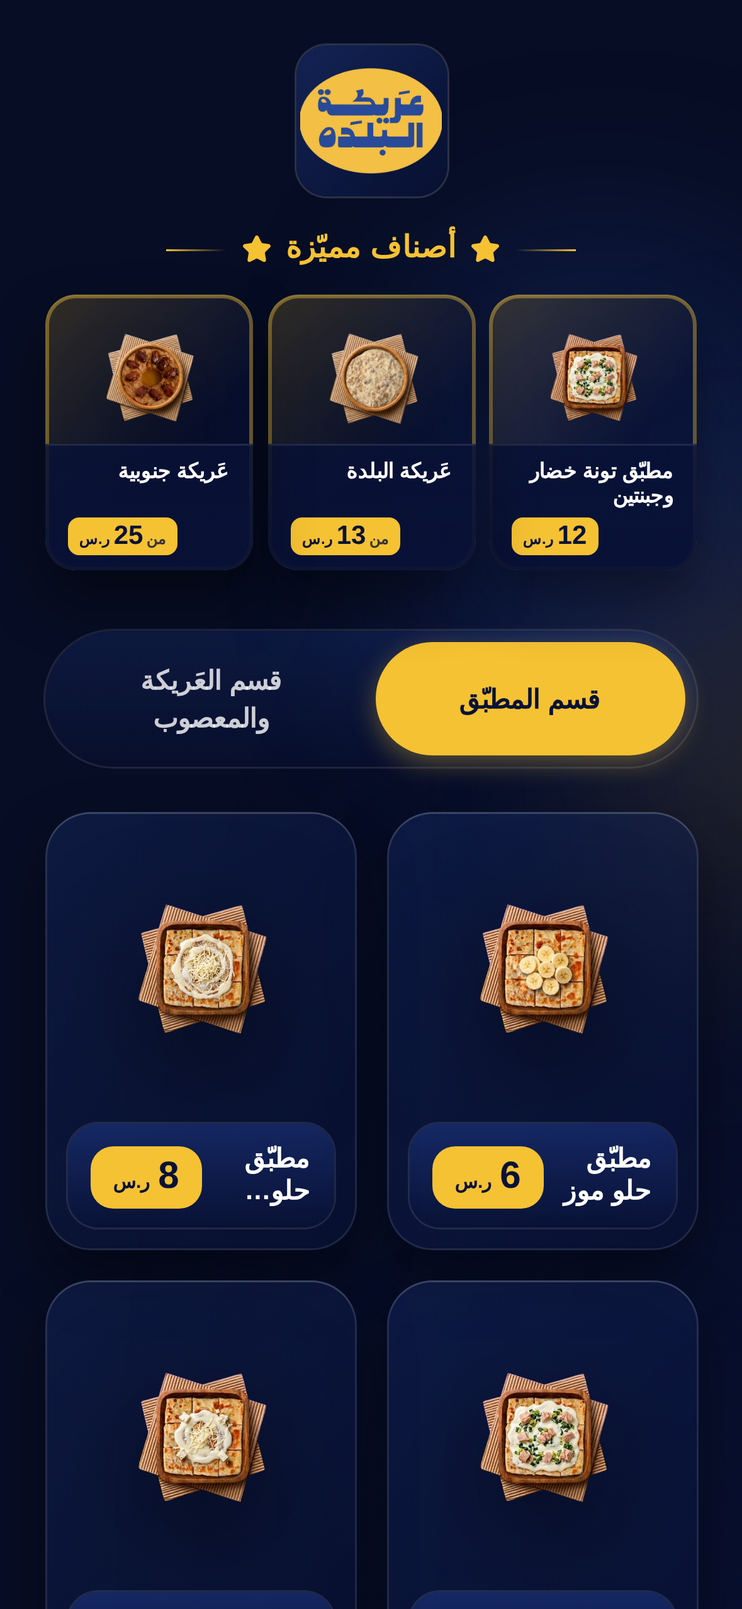
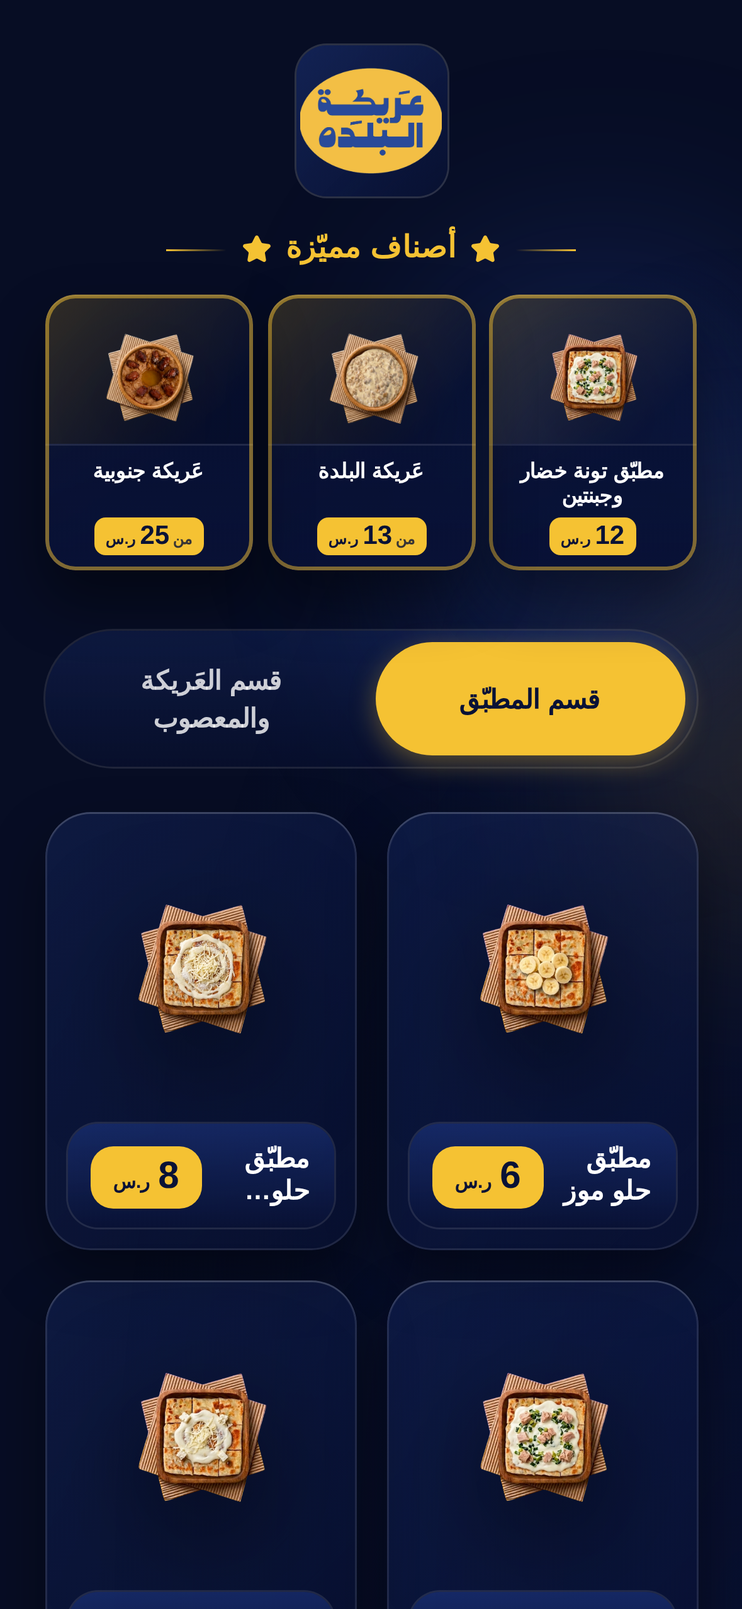
fix(web): gold ring visible on all 4 edges + centred price chip
User caught two issues with the featured cards on iPhone:

1) The opaque dark strip was painting OVER the gold ring at the
   bottom of the card, so the ring looked cut off — only top and
   sides visible.
   Cause: the ring was rendered as the FIRST positioned child of the
   button, putting it underneath every later sibling (including the
   strip with its near-opaque background).
   Fix: moved the ring overlay to be the LAST child so it's the top
   z-layer of the card. With pointer-events-none it still passes
   clicks through. Bumped opacity 40% → 50% so the gold reads cleanly
   against the dark strip below. Same treatment applied to the
   hover-state ring.

2) On phone, the dish name + price chip were aligned right/end inside
   the strip, leaving an unbalanced empty band on the opposite side.
   Fix: centred both elements (text-center on the name + self-center
   on the chip) on phone widths only. md+ keeps the original side-by-
   side layout (name right, chip left in RTL).

https://claude.ai/code/session_01Tjv9deCadTK9xL9Nd7REno

diff --git a/docs/assets/index-B9Rr-2b2.css b/docs/assets/index-B9Rr-2b2.css
@@ -1,0 +1,1 @@
+*,:before,:after{--tw-border-spacing-x: 0;--tw-border-spacing-y: 0;--tw-translate-x: 0;--tw-translate-y: 0;--tw-rotate: 0;--tw-skew-x: 0;--tw-skew-y: 0;--tw-scale-x: 1;--tw-scale-y: 1;--tw-pan-x: ;--tw-pan-y: ;--tw-pinch-zoom: ;--tw-scroll-snap-strictness: proximity;--tw-gradient-from-position: ;--tw-gradient-via-position: ;--tw-gradient-to-position: ;--tw-ordinal: ;--tw-slashed-zero: ;--tw-numeric-figure: ;--tw-numeric-spacing: ;--tw-numeric-fraction: ;--tw-ring-inset: ;--tw-ring-offset-width: 0px;--tw-ring-offset-color: #fff;--tw-ring-color: rgb(59 130 246 / .5);--tw-ring-offset-shadow: 0 0 #0000;--tw-ring-shadow: 0 0 #0000;--tw-shadow: 0 0 #0000;--tw-shadow-colored: 0 0 #0000;--tw-blur: ;--tw-brightness: ;--tw-contrast: ;--tw-grayscale: ;--tw-hue-rotate: ;--tw-invert: ;--tw-saturate: ;--tw-sepia: ;--tw-drop-shadow: ;--tw-backdrop-blur: ;--tw-backdrop-brightness: ;--tw-backdrop-contrast: ;--tw-backdrop-grayscale: ;--tw-backdrop-hue-rotate: ;--tw-backdrop-invert: ;--tw-backdrop-opacity: ;--tw-backdrop-saturate: ;--tw-backdrop-sepia: ;--tw-contain-size: ;--tw-contain-layout: ;--tw-contain-paint: ;--tw-contain-style: }::backdrop{--tw-border-spacing-x: 0;--tw-border-spacing-y: 0;--tw-translate-x: 0;--tw-translate-y: 0;--tw-rotate: 0;--tw-skew-x: 0;--tw-skew-y: 0;--tw-scale-x: 1;--tw-scale-y: 1;--tw-pan-x: ;--tw-pan-y: ;--tw-pinch-zoom: ;--tw-scroll-snap-strictness: proximity;--tw-gradient-from-position: ;--tw-gradient-via-position: ;--tw-gradient-to-position: ;--tw-ordinal: ;--tw-slashed-zero: ;--tw-numeric-figure: ;--tw-numeric-spacing: ;--tw-numeric-fraction: ;--tw-ring-inset: ;--tw-ring-offset-width: 0px;--tw-ring-offset-color: #fff;--tw-ring-color: rgb(59 130 246 / .5);--tw-ring-offset-shadow: 0 0 #0000;--tw-ring-shadow: 0 0 #0000;--tw-shadow: 0 0 #0000;--tw-shadow-colored: 0 0 #0000;--tw-blur: ;--tw-brightness: ;--tw-contrast: ;--tw-grayscale: ;--tw-hue-rotate: ;--tw-invert: ;--tw-saturate: ;--tw-sepia: ;--tw-drop-shadow: ;--tw-backdrop-blur: ;--tw-backdrop-brightness: ;--tw-backdrop-contrast: ;--tw-backdrop-grayscale: ;--tw-backdrop-hue-rotate: ;--tw-backdrop-invert: ;--tw-backdrop-opacity: ;--tw-backdrop-saturate: ;--tw-backdrop-sepia: ;--tw-contain-size: ;--tw-contain-layout: ;--tw-contain-paint: ;--tw-contain-style: }*,:before,:after{box-sizing:border-box;border-width:0;border-style:solid;border-color:#e5e7eb}:before,:after{--tw-content: ""}html,:host{line-height:1.5;-webkit-text-size-adjust:100%;-moz-tab-size:4;-o-tab-size:4;tab-size:4;font-family:ui-sans-serif,system-ui,sans-serif,"Apple Color Emoji","Segoe UI Emoji",Segoe UI Symbol,"Noto Color Emoji";font-feature-settings:normal;font-variation-settings:normal;-webkit-tap-highlight-color:transparent}body{margin:0;line-height:inherit}hr{height:0;color:inherit;border-top-width:1px}abbr:where([title]){-webkit-text-decoration:underline dotted;text-decoration:underline dotted}h1,h2,h3,h4,h5,h6{font-size:inherit;font-weight:inherit}a{color:inherit;text-decoration:inherit}b,strong{font-weight:bolder}code,kbd,samp,pre{font-family:ui-monospace,SFMono-Regular,Menlo,Monaco,Consolas,Liberation Mono,Courier New,monospace;font-feature-settings:normal;font-variation-settings:normal;font-size:1em}small{font-size:80%}sub,sup{font-size:75%;line-height:0;position:relative;vertical-align:baseline}sub{bottom:-.25em}sup{top:-.5em}table{text-indent:0;border-color:inherit;border-collapse:collapse}button,input,optgroup,select,textarea{font-family:inherit;font-feature-settings:inherit;font-variation-settings:inherit;font-size:100%;font-weight:inherit;line-height:inherit;letter-spacing:inherit;color:inherit;margin:0;padding:0}button,select{text-transform:none}button,input:where([type=button]),input:where([type=reset]),input:where([type=submit]){-webkit-appearance:button;background-color:transparent;background-image:none}:-moz-focusring{outline:auto}:-moz-ui-invalid{box-shadow:none}progress{vertical-align:baseline}::-webkit-inner-spin-button,::-webkit-outer-spin-button{height:auto}[type=search]{-webkit-appearance:textfield;outline-offset:-2px}::-webkit-search-decoration{-webkit-appearance:none}::-webkit-file-upload-button{-webkit-appearance:button;font:inherit}summary{display:list-item}blockquote,dl,dd,h1,h2,h3,h4,h5,h6,hr,figure,p,pre{margin:0}fieldset{margin:0;padding:0}legend{padding:0}ol,ul,menu{list-style:none;margin:0;padding:0}dialog{padding:0}textarea{resize:vertical}input::-moz-placeholder,textarea::-moz-placeholder{opacity:1;color:#9ca3af}input::placeholder,textarea::placeholder{opacity:1;color:#9ca3af}button,[role=button]{cursor:pointer}:disabled{cursor:default}img,svg,video,canvas,audio,iframe,embed,object{display:block;vertical-align:middle}img,video{max-width:100%;height:auto}[hidden]:where(:not([hidden=until-found])){display:none}html,body,#root{height:100%;width:100%}body{font-family:Cairo,sans-serif;background:#070d24;color:#fff;overflow:hidden;-webkit-tap-highlight-color:transparent}.container{width:100%}@media(min-width:640px){.container{max-width:640px}}@media(min-width:768px){.container{max-width:768px}}@media(min-width:1024px){.container{max-width:1024px}}@media(min-width:1280px){.container{max-width:1280px}}@media(min-width:1536px){.container{max-width:1536px}}.pointer-events-none{pointer-events:none}.visible{visibility:visible}.static{position:static}.fixed{position:fixed}.absolute{position:absolute}.relative{position:relative}.inset-0{top:0;right:0;bottom:0;left:0}.left-5{left:1.25rem}.top-5{top:1.25rem}.z-10{z-index:10}.z-50{z-index:50}.mx-3{margin-left:.75rem;margin-right:.75rem}.mx-auto{margin-left:auto;margin-right:auto}.my-5{margin-top:1.25rem;margin-bottom:1.25rem}.mb-3{margin-bottom:.75rem}.mt-1{margin-top:.25rem}.mt-6{margin-top:1.5rem}.mt-8{margin-top:2rem}.line-clamp-2{overflow:hidden;display:-webkit-box;-webkit-box-orient:vertical;-webkit-line-clamp:2}.flex{display:flex}.grid{display:grid}.aspect-\[3\/4\]{aspect-ratio:3/4}.aspect-square{aspect-ratio:1 / 1}.h-1{height:.25rem}.h-12{height:3rem}.h-14{height:3.5rem}.h-20{height:5rem}.h-4{height:1rem}.h-5{height:1.25rem}.h-\[45vh\]{height:45vh}.h-\[55vh\]{height:55vh}.h-full{height:100%}.h-px{height:1px}.max-h-full{max-height:100%}.min-h-\[2\.4em\]{min-height:2.4em}.w-12{width:3rem}.w-20{width:5rem}.w-4{width:1rem}.w-5{width:1.25rem}.w-8{width:2rem}.w-\[45vw\]{width:45vw}.w-\[55vw\]{width:55vw}.w-auto{width:auto}.w-full{width:100%}.min-w-0{min-width:0px}.max-w-2xl{max-width:42rem}.max-w-6xl{max-width:72rem}.max-w-7xl{max-width:80rem}.max-w-full{max-width:100%}.max-w-md{max-width:28rem}.flex-1{flex:1 1 0%}.flex-shrink-0,.shrink-0{flex-shrink:0}.scale-\[1\.04\]{--tw-scale-x: 1.04;--tw-scale-y: 1.04;transform:translate(var(--tw-translate-x),var(--tw-translate-y)) rotate(var(--tw-rotate)) skew(var(--tw-skew-x)) skewY(var(--tw-skew-y)) scaleX(var(--tw-scale-x)) scaleY(var(--tw-scale-y))}.transform{transform:translate(var(--tw-translate-x),var(--tw-translate-y)) rotate(var(--tw-rotate)) skew(var(--tw-skew-x)) skewY(var(--tw-skew-y)) scaleX(var(--tw-scale-x)) scaleY(var(--tw-scale-y))}.grid-cols-2{grid-template-columns:repeat(2,minmax(0,1fr))}.grid-cols-3{grid-template-columns:repeat(3,minmax(0,1fr))}.flex-col{flex-direction:column}.place-items-center{place-items:center}.items-end{align-items:flex-end}.items-center{align-items:center}.items-baseline{align-items:baseline}.items-stretch{align-items:stretch}.justify-center{justify-content:center}.justify-between{justify-content:space-between}.gap-0\.5{gap:.125rem}.gap-1{gap:.25rem}.gap-2{gap:.5rem}.gap-3{gap:.75rem}.gap-4{gap:1rem}.self-center{align-self:center}.overflow-hidden{overflow:hidden}.overflow-y-auto{overflow-y:auto}.overscroll-none{overscroll-behavior:none}.rounded-2xl{border-radius:1rem}.rounded-3xl{border-radius:1.5rem}.rounded-\[36px\]{border-radius:36px}.rounded-full{border-radius:9999px}.rounded-md{border-radius:.375rem}.rounded-xl{border-radius:.75rem}.rounded-b-2xl{border-bottom-right-radius:1rem;border-bottom-left-radius:1rem}.border{border-width:1px}.border-t{border-top-width:1px}.border-white\/10{border-color:#ffffff1a}.bg-\[\#070d24\]{--tw-bg-opacity: 1;background-color:rgb(7 13 36 / var(--tw-bg-opacity, 1))}.bg-black\/60{background-color:#0009}.bg-brand-yellow{--tw-bg-opacity: 1;background-color:rgb(245 194 51 / var(--tw-bg-opacity, 1))}.bg-white\/10{background-color:#ffffff1a}.bg-white\/15{background-color:#ffffff26}.bg-gradient-to-l{background-image:linear-gradient(to left,var(--tw-gradient-stops))}.bg-gradient-to-r{background-image:linear-gradient(to right,var(--tw-gradient-stops))}.from-brand-yellow{--tw-gradient-from: #f5c233 var(--tw-gradient-from-position);--tw-gradient-to: rgb(245 194 51 / 0) var(--tw-gradient-to-position);--tw-gradient-stops: var(--tw-gradient-from), var(--tw-gradient-to)}.to-transparent{--tw-gradient-to: transparent var(--tw-gradient-to-position)}.fill-brand-yellow{fill:#f5c233}.object-contain{-o-object-fit:contain;object-fit:contain}.p-1\.5{padding:.375rem}.p-3{padding:.75rem}.p-4{padding:1rem}.p-5{padding:1.25rem}.px-1\.5{padding-left:.375rem;padding-right:.375rem}.px-2{padding-left:.5rem;padding-right:.5rem}.px-3{padding-left:.75rem;padding-right:.75rem}.px-6{padding-left:1.5rem;padding-right:1.5rem}.py-0\.5{padding-top:.125rem;padding-bottom:.125rem}.py-1\.5{padding-top:.375rem;padding-bottom:.375rem}.py-2{padding-top:.5rem;padding-bottom:.5rem}.py-2\.5{padding-top:.625rem;padding-bottom:.625rem}.pb-1{padding-bottom:.25rem}.pb-10{padding-bottom:2.5rem}.pb-3{padding-bottom:.75rem}.pt-10{padding-top:2.5rem}.pt-3{padding-top:.75rem}.pt-4{padding-top:1rem}.pt-6{padding-top:1.5rem}.text-center{text-align:center}.text-right{text-align:right}.font-cairo{font-family:Cairo,sans-serif}.font-tajawal{font-family:Tajawal,sans-serif}.text-2xl{font-size:1.5rem;line-height:2rem}.text-3xl{font-size:1.875rem;line-height:2.25rem}.text-\[10px\]{font-size:10px}.text-\[11px\]{font-size:11px}.text-\[8px\]{font-size:8px}.text-\[9px\]{font-size:9px}.text-base{font-size:1rem;line-height:1.5rem}.text-sm{font-size:.875rem;line-height:1.25rem}.text-xl{font-size:1.25rem;line-height:1.75rem}.text-xs{font-size:.75rem;line-height:1rem}.font-black{font-weight:900}.font-bold{font-weight:700}.leading-\[1\.2\]{line-height:1.2}.leading-none{line-height:1}.leading-tight{line-height:1.25}.tracking-wide{letter-spacing:.025em}.text-brand-blueDeep{--tw-text-opacity: 1;color:rgb(9 18 54 / var(--tw-text-opacity, 1))}.text-brand-yellow{--tw-text-opacity: 1;color:rgb(245 194 51 / var(--tw-text-opacity, 1))}.text-white{--tw-text-opacity: 1;color:rgb(255 255 255 / var(--tw-text-opacity, 1))}.text-white\/80{color:#fffc}.antialiased{-webkit-font-smoothing:antialiased;-moz-osx-font-smoothing:grayscale}.opacity-80{opacity:.8}.shadow-\[0_4px_14px_rgba\(245\,194\,51\,0\.35\)\]{--tw-shadow: 0 4px 14px rgba(245,194,51,.35);--tw-shadow-colored: 0 4px 14px var(--tw-shadow-color);box-shadow:var(--tw-ring-offset-shadow, 0 0 #0000),var(--tw-ring-shadow, 0 0 #0000),var(--tw-shadow)}.outline-none{outline:2px solid transparent;outline-offset:2px}.ring{--tw-ring-offset-shadow: var(--tw-ring-inset) 0 0 0 var(--tw-ring-offset-width) var(--tw-ring-offset-color);--tw-ring-shadow: var(--tw-ring-inset) 0 0 0 calc(3px + var(--tw-ring-offset-width)) var(--tw-ring-color);box-shadow:var(--tw-ring-offset-shadow),var(--tw-ring-shadow),var(--tw-shadow, 0 0 #0000)}.ring-1{--tw-ring-offset-shadow: var(--tw-ring-inset) 0 0 0 var(--tw-ring-offset-width) var(--tw-ring-offset-color);--tw-ring-shadow: var(--tw-ring-inset) 0 0 0 calc(1px + var(--tw-ring-offset-width)) var(--tw-ring-color);box-shadow:var(--tw-ring-offset-shadow),var(--tw-ring-shadow),var(--tw-shadow, 0 0 #0000)}.ring-2{--tw-ring-offset-shadow: var(--tw-ring-inset) 0 0 0 var(--tw-ring-offset-width) var(--tw-ring-offset-color);--tw-ring-shadow: var(--tw-ring-inset) 0 0 0 calc(2px + var(--tw-ring-offset-width)) var(--tw-ring-color);box-shadow:var(--tw-ring-offset-shadow),var(--tw-ring-shadow),var(--tw-shadow, 0 0 #0000)}.ring-inset{--tw-ring-inset: inset}.ring-brand-yellow\/0{--tw-ring-color: rgb(245 194 51 / 0)}.ring-brand-yellow\/50{--tw-ring-color: rgb(245 194 51 / .5)}.ring-white\/10{--tw-ring-color: rgb(255 255 255 / .1)}.ring-white\/15{--tw-ring-color: rgb(255 255 255 / .15)}.ring-white\/20{--tw-ring-color: rgb(255 255 255 / .2)}.ring-white\/25{--tw-ring-color: rgb(255 255 255 / .25)}.blur{--tw-blur: blur(8px);filter:var(--tw-blur) var(--tw-brightness) var(--tw-contrast) var(--tw-grayscale) var(--tw-hue-rotate) var(--tw-invert) var(--tw-saturate) var(--tw-sepia) var(--tw-drop-shadow)}.drop-shadow-\[0_18px_28px_rgba\(0\,0\,0\,0\.55\)\]{--tw-drop-shadow: drop-shadow(0 18px 28px rgba(0,0,0,.55));filter:var(--tw-blur) var(--tw-brightness) var(--tw-contrast) var(--tw-grayscale) var(--tw-hue-rotate) var(--tw-invert) var(--tw-saturate) var(--tw-sepia) var(--tw-drop-shadow)}.drop-shadow-\[0_36px_60px_rgba\(0\,0\,0\,0\.55\)\]{--tw-drop-shadow: drop-shadow(0 36px 60px rgba(0,0,0,.55));filter:var(--tw-blur) var(--tw-brightness) var(--tw-contrast) var(--tw-grayscale) var(--tw-hue-rotate) var(--tw-invert) var(--tw-saturate) var(--tw-sepia) var(--tw-drop-shadow)}.filter{filter:var(--tw-blur) var(--tw-brightness) var(--tw-contrast) var(--tw-grayscale) var(--tw-hue-rotate) var(--tw-invert) var(--tw-saturate) var(--tw-sepia) var(--tw-drop-shadow)}.backdrop-blur{--tw-backdrop-blur: blur(8px);-webkit-backdrop-filter:var(--tw-backdrop-blur) var(--tw-backdrop-brightness) var(--tw-backdrop-contrast) var(--tw-backdrop-grayscale) var(--tw-backdrop-hue-rotate) var(--tw-backdrop-invert) var(--tw-backdrop-opacity) var(--tw-backdrop-saturate) var(--tw-backdrop-sepia);backdrop-filter:var(--tw-backdrop-blur) var(--tw-backdrop-brightness) var(--tw-backdrop-contrast) var(--tw-backdrop-grayscale) var(--tw-backdrop-hue-rotate) var(--tw-backdrop-invert) var(--tw-backdrop-opacity) var(--tw-backdrop-saturate) var(--tw-backdrop-sepia)}.backdrop-blur-3xl{--tw-backdrop-blur: blur(64px);-webkit-backdrop-filter:var(--tw-backdrop-blur) var(--tw-backdrop-brightness) var(--tw-backdrop-contrast) var(--tw-backdrop-grayscale) var(--tw-backdrop-hue-rotate) var(--tw-backdrop-invert) var(--tw-backdrop-opacity) var(--tw-backdrop-saturate) var(--tw-backdrop-sepia);backdrop-filter:var(--tw-backdrop-blur) var(--tw-backdrop-brightness) var(--tw-backdrop-contrast) var(--tw-backdrop-grayscale) var(--tw-backdrop-hue-rotate) var(--tw-backdrop-invert) var(--tw-backdrop-opacity) var(--tw-backdrop-saturate) var(--tw-backdrop-sepia)}.backdrop-blur-md{--tw-backdrop-blur: blur(12px);-webkit-backdrop-filter:var(--tw-backdrop-blur) var(--tw-backdrop-brightness) var(--tw-backdrop-contrast) var(--tw-backdrop-grayscale) var(--tw-backdrop-hue-rotate) var(--tw-backdrop-invert) var(--tw-backdrop-opacity) var(--tw-backdrop-saturate) var(--tw-backdrop-sepia);backdrop-filter:var(--tw-backdrop-blur) var(--tw-backdrop-brightness) var(--tw-backdrop-contrast) var(--tw-backdrop-grayscale) var(--tw-backdrop-hue-rotate) var(--tw-backdrop-invert) var(--tw-backdrop-opacity) var(--tw-backdrop-saturate) var(--tw-backdrop-sepia)}.backdrop-filter{-webkit-backdrop-filter:var(--tw-backdrop-blur) var(--tw-backdrop-brightness) var(--tw-backdrop-contrast) var(--tw-backdrop-grayscale) var(--tw-backdrop-hue-rotate) var(--tw-backdrop-invert) var(--tw-backdrop-opacity) var(--tw-backdrop-saturate) var(--tw-backdrop-sepia);backdrop-filter:var(--tw-backdrop-blur) var(--tw-backdrop-brightness) var(--tw-backdrop-contrast) var(--tw-backdrop-grayscale) var(--tw-backdrop-hue-rotate) var(--tw-backdrop-invert) var(--tw-backdrop-opacity) var(--tw-backdrop-saturate) var(--tw-backdrop-sepia)}.transition{transition-property:color,background-color,border-color,text-decoration-color,fill,stroke,opacity,box-shadow,transform,filter,backdrop-filter;transition-timing-function:cubic-bezier(.4,0,.2,1);transition-duration:.15s}.transition-\[box-shadow\]{transition-property:box-shadow;transition-timing-function:cubic-bezier(.4,0,.2,1);transition-duration:.15s}.transition-colors{transition-property:color,background-color,border-color,text-decoration-color,fill,stroke;transition-timing-function:cubic-bezier(.4,0,.2,1);transition-duration:.15s}.transition-transform{transition-property:transform;transition-timing-function:cubic-bezier(.4,0,.2,1);transition-duration:.15s}.duration-200{transition-duration:.2s}.ease-out{transition-timing-function:cubic-bezier(0,0,.2,1)}.will-change-transform{will-change:transform}.hover\:-translate-y-1:hover{--tw-translate-y: -.25rem;transform:translate(var(--tw-translate-x),var(--tw-translate-y)) rotate(var(--tw-rotate)) skew(var(--tw-skew-x)) skewY(var(--tw-skew-y)) scaleX(var(--tw-scale-x)) scaleY(var(--tw-scale-y))}.hover\:bg-white\/20:hover{background-color:#fff3}.hover\:text-white:hover{--tw-text-opacity: 1;color:rgb(255 255 255 / var(--tw-text-opacity, 1))}.active\:scale-90:active{--tw-scale-x: .9;--tw-scale-y: .9;transform:translate(var(--tw-translate-x),var(--tw-translate-y)) rotate(var(--tw-rotate)) skew(var(--tw-skew-x)) skewY(var(--tw-skew-y)) scaleX(var(--tw-scale-x)) scaleY(var(--tw-scale-y))}.active\:scale-\[0\.98\]:active{--tw-scale-x: .98;--tw-scale-y: .98;transform:translate(var(--tw-translate-x),var(--tw-translate-y)) rotate(var(--tw-rotate)) skew(var(--tw-skew-x)) skewY(var(--tw-skew-y)) scaleX(var(--tw-scale-x)) scaleY(var(--tw-scale-y))}.group:hover .group-hover\:ring-brand-yellow\/40{--tw-ring-color: rgb(245 194 51 / .4)}.group:hover .group-hover\:ring-brand-yellow\/80{--tw-ring-color: rgb(245 194 51 / .8)}@media(min-width:640px){.sm\:line-clamp-1{overflow:hidden;display:-webkit-box;-webkit-box-orient:vertical;-webkit-line-clamp:1}.sm\:h-5{height:1.25rem}.sm\:min-h-0{min-height:0px}.sm\:w-16{width:4rem}.sm\:w-5{width:1.25rem}.sm\:flex-row{flex-direction:row}.sm\:items-center{align-items:center}.sm\:justify-between{justify-content:space-between}.sm\:gap-1{gap:.25rem}.sm\:gap-2{gap:.5rem}.sm\:gap-3{gap:.75rem}.sm\:gap-4{gap:1rem}.sm\:self-auto{align-self:auto}.sm\:rounded-3xl{border-radius:1.5rem}.sm\:rounded-lg{border-radius:.5rem}.sm\:rounded-b-3xl{border-bottom-right-radius:1.5rem;border-bottom-left-radius:1.5rem}.sm\:p-7{padding:1.75rem}.sm\:px-2{padding-left:.5rem;padding-right:.5rem}.sm\:px-3{padding-left:.75rem;padding-right:.75rem}.sm\:py-1{padding-top:.25rem;padding-bottom:.25rem}.sm\:py-2\.5{padding-top:.625rem;padding-bottom:.625rem}.sm\:pb-4{padding-bottom:1rem}.sm\:pt-12{padding-top:3rem}.sm\:pt-4{padding-top:1rem}.sm\:text-right{text-align:right}.sm\:text-\[9px\]{font-size:9px}.sm\:text-lg{font-size:1.125rem;line-height:1.75rem}.sm\:text-sm{font-size:.875rem;line-height:1.25rem}.sm\:text-xl{font-size:1.25rem;line-height:1.75rem}}@media(min-width:768px){.md\:order-1{order:1}.md\:order-2{order:2}.md\:aspect-auto{aspect-ratio:auto}.md\:h-16{height:4rem}.md\:h-24{height:6rem}.md\:h-full{height:100%}.md\:max-h-\[88vh\]{max-height:88vh}.md\:max-h-full{max-height:100%}.md\:w-24{width:6rem}.md\:w-auto{width:auto}.md\:max-w-full{max-width:100%}.md\:flex-1{flex:1 1 0%}.md\:grid-cols-3{grid-template-columns:repeat(3,minmax(0,1fr))}.md\:flex-row{flex-direction:row}.md\:items-stretch{align-items:stretch}.md\:gap-4{gap:1rem}.md\:gap-8{gap:2rem}.md\:p-10{padding:2.5rem}.md\:px-10{padding-left:2.5rem;padding-right:2.5rem}.md\:pt-0{padding-top:0}.md\:pt-8{padding-top:2rem}.md\:text-2xl{font-size:1.5rem;line-height:2rem}.md\:text-4xl{font-size:2.25rem;line-height:2.5rem}.md\:text-base{font-size:1rem;line-height:1.5rem}.md\:text-sm{font-size:.875rem;line-height:1.25rem}.md\:text-xl{font-size:1.25rem;line-height:1.75rem}}@media(min-width:1024px){.lg\:grid-cols-4{grid-template-columns:repeat(4,minmax(0,1fr))}}

diff --git a/docs/assets/index-BgeSWx5V.js b/docs/assets/index-BgeSWx5V.js
@@ -84,4 +84,4 @@ Error generating stack: `+a.message+`
  *
  * This source code is licensed under the ISC license.
  * See the LICENSE file in the root directory of this source tree.
- */const hA=Ig("X",[["path",{d:"M18 6 6 18",key:"1bl5f8"}],["path",{d:"m6 6 12 12",key:"d8bk6v"}]]),dA=({dish:i,onClose:l})=>H.jsx(pn.div,{initial:{opacity:0},animate:{opacity:1},exit:{opacity:0},transition:{duration:.25},onClick:l,className:"fixed inset-0 z-50 grid place-items-center bg-black/60 p-5 backdrop-blur-md",children:H.jsxs(pn.div,{initial:{y:60,scale:.95,opacity:0},animate:{y:0,scale:1,opacity:1},exit:{y:40,scale:.95,opacity:0},transition:{type:"spring",damping:24,stiffness:240},onClick:u=>u.stopPropagation(),className:"relative flex w-full max-w-6xl flex-col gap-4 overflow-hidden rounded-[36px] p-5 backdrop-blur-3xl sm:p-7 md:h-full md:max-h-[88vh] md:flex-row md:items-stretch md:gap-8 md:p-10",style:{background:"linear-gradient(135deg, rgba(47,85,196,0.30) 0%, rgba(9,18,54,0.55) 100%)",boxShadow:"0 36px 80px rgba(0, 0, 0, 0.55)",border:"1px solid rgba(255, 255, 255, 0.18)"},children:[H.jsx("button",{onClick:l,"aria-label":"إغلاق",className:"absolute left-5 top-5 z-10 grid h-12 w-12 place-items-center rounded-full bg-white/15 text-white ring-1 ring-white/25 backdrop-blur transition-transform hover:bg-white/20 active:scale-90",children:H.jsx(hA,{className:"h-5 w-5"})}),H.jsx("div",{className:"flex w-full justify-center pt-10 sm:pt-12 md:order-2 md:flex-1 md:pt-0",children:H.jsx(pn.img,{initial:{scale:.92,opacity:0},animate:{scale:1,opacity:1},transition:{delay:.1,type:"spring",damping:18,stiffness:110},src:i.image,alt:i.nameAr,className:"aspect-square w-full max-w-md object-contain drop-shadow-[0_36px_60px_rgba(0,0,0,0.55)] md:aspect-auto md:h-full md:max-h-full md:w-auto md:max-w-full"})}),H.jsxs("div",{className:"flex flex-col justify-center md:order-1 md:flex-1",dir:"rtl",children:[H.jsx(pn.h2,{initial:{x:24,opacity:0},animate:{x:0,opacity:1},transition:{delay:.2,type:"spring",damping:18,stiffness:120},className:"font-cairo font-black leading-tight text-white",style:{fontSize:"clamp(2.25rem, 4.5vw, 4rem)"},children:i.nameAr}),H.jsx("div",{className:"my-5 h-1 w-20 rounded-full bg-brand-yellow"}),i.prices&&i.prices.length>0?H.jsx(mA,{prices:i.prices}):H.jsx(pA,{price:i.price??"—"})]})]})}),mA=({prices:i})=>H.jsx("div",{className:"grid grid-cols-3 gap-3",children:i.map((l,u)=>H.jsxs(pn.div,{initial:{y:16,opacity:0},animate:{y:0,opacity:1},transition:{delay:.25+u*.07,type:"spring",damping:20,stiffness:140},className:"rounded-2xl bg-white/10 p-4 ring-1 ring-white/20 backdrop-blur",children:[H.jsx("div",{className:"font-cairo text-sm font-bold text-brand-yellow md:text-base",children:l.label}),H.jsxs("div",{className:"mt-1 flex items-baseline gap-1 font-cairo",children:[H.jsx("span",{className:"text-3xl font-black text-white md:text-4xl",children:l.value.split(" ")[0]}),H.jsx("span",{className:"text-xs font-bold text-brand-yellow md:text-sm",children:"ر.س"})]})]},l.label))}),pA=({price:i})=>{const[l,...u]=i.split(" ");return H.jsxs(pn.div,{initial:{scale:.9,opacity:0},animate:{scale:1,opacity:1},transition:{delay:.25,type:"spring",damping:18,stiffness:110},className:"flex items-baseline gap-2",children:[H.jsx("span",{className:"font-cairo font-black leading-none text-brand-yellow",style:{fontSize:"clamp(3rem, 7vw, 6rem)"},children:l}),H.jsx("span",{className:"font-cairo text-2xl font-bold text-brand-yellow md:text-4xl",children:u.join(" ")||"ر.س"})]})},yA=()=>H.jsx("header",{className:"flex flex-shrink-0 items-center justify-center px-6 pt-6 md:pt-8",children:H.jsx("div",{className:"grid h-20 w-20 place-items-center overflow-hidden rounded-2xl ring-1 ring-white/15 md:h-24 md:w-24",style:{background:"linear-gradient(135deg, rgba(47,85,196,0.30) 0%, rgba(9,18,54,0.65) 100%)"},children:H.jsx("img",{src:"logo.png",alt:"عَريكة البلدة",className:"h-14 w-auto md:h-16"})})}),gA=()=>H.jsxs("div",{className:"pointer-events-none absolute inset-0 overflow-hidden bg-[#070d24]",children:[H.jsx(pn.div,{className:"absolute h-[55vh] w-[55vw] rounded-full will-change-transform",style:{background:"radial-gradient(circle, rgba(47, 85, 196, 0.45), transparent 65%)",filter:"blur(45px)",transform:"translate3d(0,0,0)"},initial:{x:"15%",y:"5%"},animate:{x:["15%","35%","15%"],y:["5%","15%","5%"]},transition:{duration:50,ease:"easeInOut",repeat:1/0}}),H.jsx(pn.div,{className:"absolute h-[45vh] w-[45vw] rounded-full will-change-transform",style:{background:"radial-gradient(circle, rgba(245, 194, 51, 0.22), transparent 70%)",filter:"blur(50px)",transform:"translate3d(0,0,0)"},initial:{x:"60%",y:"55%"},animate:{x:["60%","40%","60%"],y:["55%","65%","55%"]},transition:{duration:60,ease:"easeInOut",repeat:1/0}}),H.jsx("div",{className:"absolute inset-0",style:{background:"radial-gradient(ellipse at bottom right, rgba(9,18,54,0.6), transparent 60%)"}})]}),vA=({active:i,categories:l,onChange:u})=>H.jsx("div",{className:"mx-auto grid w-full max-w-2xl grid-cols-2 gap-1 rounded-full p-1.5 ring-1 ring-white/10",style:{background:"linear-gradient(180deg, rgba(47,85,196,0.18) 0%, rgba(9,18,54,0.40) 100%)"},role:"tablist",children:l.map(o=>{const c=o.id===i;return H.jsx("button",{role:"tab","aria-selected":c,onClick:()=>u(o.id),className:`rounded-full px-3 py-2.5 text-center font-cairo text-sm font-bold transition-colors duration-200 ${c?"bg-brand-yellow text-brand-blueDeep shadow-[0_4px_14px_rgba(245,194,51,0.35)]":"text-white/80 hover:text-white"}`,children:o.labelAr},o.id)})}),bA=({dishes:i,onSelect:l})=>H.jsxs("section",{className:"mx-auto w-full max-w-7xl",children:[H.jsxs("div",{className:"flex items-center justify-center gap-2 pb-3 sm:gap-4 sm:pb-4",children:[H.jsx("span",{className:"h-px w-8 bg-gradient-to-l from-brand-yellow to-transparent sm:w-16"}),H.jsx(vy,{className:"h-4 w-4 fill-brand-yellow text-brand-yellow sm:h-5 sm:w-5",strokeWidth:2}),H.jsx("h2",{className:"font-cairo text-base font-black tracking-wide text-brand-yellow sm:text-xl md:text-2xl",children:"أصناف مميّزة"}),H.jsx(vy,{className:"h-4 w-4 fill-brand-yellow text-brand-yellow sm:h-5 sm:w-5",strokeWidth:2}),H.jsx("span",{className:"h-px w-8 bg-gradient-to-r from-brand-yellow to-transparent sm:w-16"})]}),H.jsx("div",{className:"grid grid-cols-3 gap-2 sm:gap-3 md:gap-4",children:i.map(u=>H.jsx(SA,{dish:u,onClick:()=>l(u)},u.image))})]}),SA=({dish:i,onClick:l})=>{const u=i.prices&&i.prices.length>1,o=Wg(i);return H.jsxs("button",{onClick:l,className:"group relative flex aspect-[3/4] flex-col overflow-hidden rounded-2xl text-right outline-none transition-transform duration-200 ease-out will-change-transform hover:-translate-y-1 active:scale-[0.98] sm:rounded-3xl",style:{background:"linear-gradient(135deg, rgba(245,194,51,0.18) 0%, rgba(9,18,54,0.65) 60%, rgba(9,18,54,0.65) 100%)",boxShadow:"0 16px 30px rgba(0, 0, 0, 0.45), inset 0 1px 0 rgba(255, 255, 255, 0.12)"},children:[H.jsx("div",{className:"pointer-events-none absolute inset-0 rounded-2xl ring-2 ring-inset ring-brand-yellow/40 sm:rounded-3xl"}),H.jsx("div",{className:"relative flex flex-1 items-center justify-center px-2 pb-1 pt-3 sm:pt-4",children:H.jsx("img",{src:i.image,alt:i.nameAr,decoding:"async",className:"max-h-full max-w-full object-contain drop-shadow-[0_18px_28px_rgba(0,0,0,0.55)]",style:{transform:"scale(1.06)"}})}),H.jsxs("div",{className:"relative flex w-full flex-shrink-0 flex-col items-stretch gap-1 rounded-b-2xl border-t border-white/10 px-3 py-2 sm:flex-row sm:items-center sm:justify-between sm:gap-2 sm:rounded-b-3xl sm:px-3 sm:py-2.5",style:{background:"linear-gradient(180deg, rgba(9, 18, 54, 0.85) 0%, rgba(9, 18, 54, 0.95) 100%)"},children:[H.jsx("h3",{className:"line-clamp-2 min-h-[2.4em] min-w-0 flex-1 text-right font-cairo text-[11px] font-black leading-[1.2] sm:min-h-0 sm:line-clamp-1 sm:text-sm md:text-base",children:i.nameAr}),H.jsxs("div",{className:"flex shrink-0 items-baseline gap-0.5 self-end rounded-md bg-brand-yellow px-1.5 py-0.5 text-brand-blueDeep sm:gap-1 sm:self-auto sm:rounded-lg sm:px-2 sm:py-1",children:[u?H.jsx("span",{className:"font-tajawal text-[8px] font-bold opacity-80 sm:text-[9px]",children:"من"}):null,H.jsx("span",{className:"font-cairo text-sm font-black leading-none sm:text-lg md:text-xl",children:o}),H.jsx("span",{className:"font-cairo text-[8px] font-bold sm:text-[9px]",children:"ر.س"})]})]}),H.jsx("div",{className:"pointer-events-none absolute inset-0 rounded-2xl ring-2 ring-brand-yellow/0 transition-[box-shadow] duration-200 group-hover:ring-brand-yellow/70 sm:rounded-3xl"})]})},TA=()=>{const[i,l]=G.useState("mutabbaq"),[u,o]=G.useState(null),c=G.useMemo(()=>i==="mutabbaq"?kg:Fg,[i]);return G.useEffect(()=>{Pg.forEach(d=>{const h=new Image;h.src=d.image})},[]),H.jsxs("div",{className:"relative h-full w-full overflow-hidden text-white",children:[H.jsx(gA,{}),H.jsxs("div",{className:"relative z-10 flex h-full flex-col",children:[H.jsx(yA,{}),H.jsxs("main",{className:"flex-1 overflow-y-auto px-6 pb-10 pt-4 md:px-10",children:[H.jsx(bA,{dishes:uA,onSelect:o}),H.jsx("div",{className:"mt-8",children:H.jsx(vA,{active:i,categories:lA,onChange:l})}),H.jsx(ap,{mode:"wait",children:H.jsx(pn.div,{initial:{opacity:0,y:8},animate:{opacity:1,y:0},exit:{opacity:0,y:-4},transition:{duration:.22,ease:"easeOut"},className:"mx-auto mt-6 grid w-full max-w-7xl grid-cols-2 gap-4 md:grid-cols-3 lg:grid-cols-4",children:c.map((d,h)=>H.jsx(oA,{dish:d,index:h,startingPrice:Wg(d),onClick:()=>o(d)},d.image))},i)})]})]}),H.jsx(ap,{children:u?H.jsx(dA,{dish:u,onClose:()=>o(null)}):null})]})};V1.createRoot(document.getElementById("root")).render(H.jsx(G.StrictMode,{children:H.jsx(TA,{})}));
+ */const hA=Ig("X",[["path",{d:"M18 6 6 18",key:"1bl5f8"}],["path",{d:"m6 6 12 12",key:"d8bk6v"}]]),dA=({dish:i,onClose:l})=>H.jsx(pn.div,{initial:{opacity:0},animate:{opacity:1},exit:{opacity:0},transition:{duration:.25},onClick:l,className:"fixed inset-0 z-50 grid place-items-center bg-black/60 p-5 backdrop-blur-md",children:H.jsxs(pn.div,{initial:{y:60,scale:.95,opacity:0},animate:{y:0,scale:1,opacity:1},exit:{y:40,scale:.95,opacity:0},transition:{type:"spring",damping:24,stiffness:240},onClick:u=>u.stopPropagation(),className:"relative flex w-full max-w-6xl flex-col gap-4 overflow-hidden rounded-[36px] p-5 backdrop-blur-3xl sm:p-7 md:h-full md:max-h-[88vh] md:flex-row md:items-stretch md:gap-8 md:p-10",style:{background:"linear-gradient(135deg, rgba(47,85,196,0.30) 0%, rgba(9,18,54,0.55) 100%)",boxShadow:"0 36px 80px rgba(0, 0, 0, 0.55)",border:"1px solid rgba(255, 255, 255, 0.18)"},children:[H.jsx("button",{onClick:l,"aria-label":"إغلاق",className:"absolute left-5 top-5 z-10 grid h-12 w-12 place-items-center rounded-full bg-white/15 text-white ring-1 ring-white/25 backdrop-blur transition-transform hover:bg-white/20 active:scale-90",children:H.jsx(hA,{className:"h-5 w-5"})}),H.jsx("div",{className:"flex w-full justify-center pt-10 sm:pt-12 md:order-2 md:flex-1 md:pt-0",children:H.jsx(pn.img,{initial:{scale:.92,opacity:0},animate:{scale:1,opacity:1},transition:{delay:.1,type:"spring",damping:18,stiffness:110},src:i.image,alt:i.nameAr,className:"aspect-square w-full max-w-md object-contain drop-shadow-[0_36px_60px_rgba(0,0,0,0.55)] md:aspect-auto md:h-full md:max-h-full md:w-auto md:max-w-full"})}),H.jsxs("div",{className:"flex flex-col justify-center md:order-1 md:flex-1",dir:"rtl",children:[H.jsx(pn.h2,{initial:{x:24,opacity:0},animate:{x:0,opacity:1},transition:{delay:.2,type:"spring",damping:18,stiffness:120},className:"font-cairo font-black leading-tight text-white",style:{fontSize:"clamp(2.25rem, 4.5vw, 4rem)"},children:i.nameAr}),H.jsx("div",{className:"my-5 h-1 w-20 rounded-full bg-brand-yellow"}),i.prices&&i.prices.length>0?H.jsx(mA,{prices:i.prices}):H.jsx(pA,{price:i.price??"—"})]})]})}),mA=({prices:i})=>H.jsx("div",{className:"grid grid-cols-3 gap-3",children:i.map((l,u)=>H.jsxs(pn.div,{initial:{y:16,opacity:0},animate:{y:0,opacity:1},transition:{delay:.25+u*.07,type:"spring",damping:20,stiffness:140},className:"rounded-2xl bg-white/10 p-4 ring-1 ring-white/20 backdrop-blur",children:[H.jsx("div",{className:"font-cairo text-sm font-bold text-brand-yellow md:text-base",children:l.label}),H.jsxs("div",{className:"mt-1 flex items-baseline gap-1 font-cairo",children:[H.jsx("span",{className:"text-3xl font-black text-white md:text-4xl",children:l.value.split(" ")[0]}),H.jsx("span",{className:"text-xs font-bold text-brand-yellow md:text-sm",children:"ر.س"})]})]},l.label))}),pA=({price:i})=>{const[l,...u]=i.split(" ");return H.jsxs(pn.div,{initial:{scale:.9,opacity:0},animate:{scale:1,opacity:1},transition:{delay:.25,type:"spring",damping:18,stiffness:110},className:"flex items-baseline gap-2",children:[H.jsx("span",{className:"font-cairo font-black leading-none text-brand-yellow",style:{fontSize:"clamp(3rem, 7vw, 6rem)"},children:l}),H.jsx("span",{className:"font-cairo text-2xl font-bold text-brand-yellow md:text-4xl",children:u.join(" ")||"ر.س"})]})},yA=()=>H.jsx("header",{className:"flex flex-shrink-0 items-center justify-center px-6 pt-6 md:pt-8",children:H.jsx("div",{className:"grid h-20 w-20 place-items-center overflow-hidden rounded-2xl ring-1 ring-white/15 md:h-24 md:w-24",style:{background:"linear-gradient(135deg, rgba(47,85,196,0.30) 0%, rgba(9,18,54,0.65) 100%)"},children:H.jsx("img",{src:"logo.png",alt:"عَريكة البلدة",className:"h-14 w-auto md:h-16"})})}),gA=()=>H.jsxs("div",{className:"pointer-events-none absolute inset-0 overflow-hidden bg-[#070d24]",children:[H.jsx(pn.div,{className:"absolute h-[55vh] w-[55vw] rounded-full will-change-transform",style:{background:"radial-gradient(circle, rgba(47, 85, 196, 0.45), transparent 65%)",filter:"blur(45px)",transform:"translate3d(0,0,0)"},initial:{x:"15%",y:"5%"},animate:{x:["15%","35%","15%"],y:["5%","15%","5%"]},transition:{duration:50,ease:"easeInOut",repeat:1/0}}),H.jsx(pn.div,{className:"absolute h-[45vh] w-[45vw] rounded-full will-change-transform",style:{background:"radial-gradient(circle, rgba(245, 194, 51, 0.22), transparent 70%)",filter:"blur(50px)",transform:"translate3d(0,0,0)"},initial:{x:"60%",y:"55%"},animate:{x:["60%","40%","60%"],y:["55%","65%","55%"]},transition:{duration:60,ease:"easeInOut",repeat:1/0}}),H.jsx("div",{className:"absolute inset-0",style:{background:"radial-gradient(ellipse at bottom right, rgba(9,18,54,0.6), transparent 60%)"}})]}),vA=({active:i,categories:l,onChange:u})=>H.jsx("div",{className:"mx-auto grid w-full max-w-2xl grid-cols-2 gap-1 rounded-full p-1.5 ring-1 ring-white/10",style:{background:"linear-gradient(180deg, rgba(47,85,196,0.18) 0%, rgba(9,18,54,0.40) 100%)"},role:"tablist",children:l.map(o=>{const c=o.id===i;return H.jsx("button",{role:"tab","aria-selected":c,onClick:()=>u(o.id),className:`rounded-full px-3 py-2.5 text-center font-cairo text-sm font-bold transition-colors duration-200 ${c?"bg-brand-yellow text-brand-blueDeep shadow-[0_4px_14px_rgba(245,194,51,0.35)]":"text-white/80 hover:text-white"}`,children:o.labelAr},o.id)})}),bA=({dishes:i,onSelect:l})=>H.jsxs("section",{className:"mx-auto w-full max-w-7xl",children:[H.jsxs("div",{className:"flex items-center justify-center gap-2 pb-3 sm:gap-4 sm:pb-4",children:[H.jsx("span",{className:"h-px w-8 bg-gradient-to-l from-brand-yellow to-transparent sm:w-16"}),H.jsx(vy,{className:"h-4 w-4 fill-brand-yellow text-brand-yellow sm:h-5 sm:w-5",strokeWidth:2}),H.jsx("h2",{className:"font-cairo text-base font-black tracking-wide text-brand-yellow sm:text-xl md:text-2xl",children:"أصناف مميّزة"}),H.jsx(vy,{className:"h-4 w-4 fill-brand-yellow text-brand-yellow sm:h-5 sm:w-5",strokeWidth:2}),H.jsx("span",{className:"h-px w-8 bg-gradient-to-r from-brand-yellow to-transparent sm:w-16"})]}),H.jsx("div",{className:"grid grid-cols-3 gap-2 sm:gap-3 md:gap-4",children:i.map(u=>H.jsx(SA,{dish:u,onClick:()=>l(u)},u.image))})]}),SA=({dish:i,onClick:l})=>{const u=i.prices&&i.prices.length>1,o=Wg(i);return H.jsxs("button",{onClick:l,className:"group relative flex aspect-[3/4] flex-col overflow-hidden rounded-2xl text-right outline-none transition-transform duration-200 ease-out will-change-transform hover:-translate-y-1 active:scale-[0.98] sm:rounded-3xl",style:{background:"linear-gradient(135deg, rgba(245,194,51,0.18) 0%, rgba(9,18,54,0.65) 60%, rgba(9,18,54,0.65) 100%)",boxShadow:"0 16px 30px rgba(0, 0, 0, 0.45), inset 0 1px 0 rgba(255, 255, 255, 0.12)"},children:[H.jsx("div",{className:"relative flex flex-1 items-center justify-center px-2 pb-1 pt-3 sm:pt-4",children:H.jsx("img",{src:i.image,alt:i.nameAr,decoding:"async",className:"max-h-full max-w-full object-contain drop-shadow-[0_18px_28px_rgba(0,0,0,0.55)]",style:{transform:"scale(1.06)"}})}),H.jsxs("div",{className:"relative flex w-full flex-shrink-0 flex-col items-stretch gap-1 rounded-b-2xl border-t border-white/10 px-3 py-2 sm:flex-row sm:items-center sm:justify-between sm:gap-2 sm:rounded-b-3xl sm:px-3 sm:py-2.5",style:{background:"linear-gradient(180deg, rgba(9, 18, 54, 0.85) 0%, rgba(9, 18, 54, 0.95) 100%)"},children:[H.jsx("h3",{className:"line-clamp-2 min-h-[2.4em] min-w-0 flex-1 text-center font-cairo text-[11px] font-black leading-[1.2] sm:min-h-0 sm:line-clamp-1 sm:text-right sm:text-sm md:text-base",children:i.nameAr}),H.jsxs("div",{className:"flex shrink-0 items-baseline gap-0.5 self-center rounded-md bg-brand-yellow px-1.5 py-0.5 text-brand-blueDeep sm:gap-1 sm:self-auto sm:rounded-lg sm:px-2 sm:py-1",children:[u?H.jsx("span",{className:"font-tajawal text-[8px] font-bold opacity-80 sm:text-[9px]",children:"من"}):null,H.jsx("span",{className:"font-cairo text-sm font-black leading-none sm:text-lg md:text-xl",children:o}),H.jsx("span",{className:"font-cairo text-[8px] font-bold sm:text-[9px]",children:"ر.س"})]})]}),H.jsx("div",{className:"pointer-events-none absolute inset-0 rounded-2xl ring-2 ring-inset ring-brand-yellow/50 sm:rounded-3xl"}),H.jsx("div",{className:"pointer-events-none absolute inset-0 rounded-2xl ring-2 ring-brand-yellow/0 transition-[box-shadow] duration-200 group-hover:ring-brand-yellow/80 sm:rounded-3xl"})]})},TA=()=>{const[i,l]=G.useState("mutabbaq"),[u,o]=G.useState(null),c=G.useMemo(()=>i==="mutabbaq"?kg:Fg,[i]);return G.useEffect(()=>{Pg.forEach(d=>{const h=new Image;h.src=d.image})},[]),H.jsxs("div",{className:"relative h-full w-full overflow-hidden text-white",children:[H.jsx(gA,{}),H.jsxs("div",{className:"relative z-10 flex h-full flex-col",children:[H.jsx(yA,{}),H.jsxs("main",{className:"flex-1 overflow-y-auto px-6 pb-10 pt-4 md:px-10",children:[H.jsx(bA,{dishes:uA,onSelect:o}),H.jsx("div",{className:"mt-8",children:H.jsx(vA,{active:i,categories:lA,onChange:l})}),H.jsx(ap,{mode:"wait",children:H.jsx(pn.div,{initial:{opacity:0,y:8},animate:{opacity:1,y:0},exit:{opacity:0,y:-4},transition:{duration:.22,ease:"easeOut"},className:"mx-auto mt-6 grid w-full max-w-7xl grid-cols-2 gap-4 md:grid-cols-3 lg:grid-cols-4",children:c.map((d,h)=>H.jsx(oA,{dish:d,index:h,startingPrice:Wg(d),onClick:()=>o(d)},d.image))},i)})]})]}),H.jsx(ap,{children:u?H.jsx(dA,{dish:u,onClose:()=>o(null)}):null})]})};V1.createRoot(document.getElementById("root")).render(H.jsx(G.StrictMode,{children:H.jsx(TA,{})}));

diff --git a/web/src/components/FeaturedSection.tsx b/web/src/components/FeaturedSection.tsx
@@ -57,9 +57,6 @@ const FeaturedCard = ({dish, onClick}: {dish: Dish; onClick: () => void}) => {
           '0 16px 30px rgba(0, 0, 0, 0.45), inset 0 1px 0 rgba(255, 255, 255, 0.12)',
       }}
     >
-      {/* Gold ring */}
-      <div className="pointer-events-none absolute inset-0 rounded-2xl ring-2 ring-inset ring-brand-yellow/40 sm:rounded-3xl" />
-
       {/* Image — dominant element of the card */}
       <div className="relative flex flex-1 items-center justify-center px-2 pb-1 pt-3 sm:pt-4">
         <img
@@ -81,10 +78,10 @@ const FeaturedCard = ({dish, onClick}: {dish: Dish; onClick: () => void}) => {
             'linear-gradient(180deg, rgba(9, 18, 54, 0.85) 0%, rgba(9, 18, 54, 0.95) 100%)',
         }}
       >
-        <h3 className="line-clamp-2 min-h-[2.4em] min-w-0 flex-1 text-right font-cairo text-[11px] font-black leading-[1.2] sm:min-h-0 sm:line-clamp-1 sm:text-sm md:text-base">
+        <h3 className="line-clamp-2 min-h-[2.4em] min-w-0 flex-1 text-center font-cairo text-[11px] font-black leading-[1.2] sm:min-h-0 sm:line-clamp-1 sm:text-right sm:text-sm md:text-base">
           {dish.nameAr}
         </h3>
-        <div className="flex shrink-0 items-baseline gap-0.5 self-end rounded-md bg-brand-yellow px-1.5 py-0.5 text-brand-blueDeep sm:gap-1 sm:self-auto sm:rounded-lg sm:px-2 sm:py-1">
+        <div className="flex shrink-0 items-baseline gap-0.5 self-center rounded-md bg-brand-yellow px-1.5 py-0.5 text-brand-blueDeep sm:gap-1 sm:self-auto sm:rounded-lg sm:px-2 sm:py-1">
           {isMulti ? (
             <span className="font-tajawal text-[8px] font-bold opacity-80 sm:text-[9px]">
               من
@@ -97,7 +94,14 @@ const FeaturedCard = ({dish, onClick}: {dish: Dish; onClick: () => void}) => {
         </div>
       </div>
 
-      <div className="pointer-events-none absolute inset-0 rounded-2xl ring-2 ring-brand-yellow/0 transition-[box-shadow] duration-200 group-hover:ring-brand-yellow/70 sm:rounded-3xl" />
+      {/* Gold ring — rendered LAST so it's the top layer of the
+          card and stays visible on all four edges, including over the
+          opaque bottom strip. pointer-events-none keeps clicks
+          flowing through to the underlying button content. */}
+      <div className="pointer-events-none absolute inset-0 rounded-2xl ring-2 ring-inset ring-brand-yellow/50 sm:rounded-3xl" />
+
+      {/* Hover ring — even brighter on hover */}
+      <div className="pointer-events-none absolute inset-0 rounded-2xl ring-2 ring-brand-yellow/0 transition-[box-shadow] duration-200 group-hover:ring-brand-yellow/80 sm:rounded-3xl" />
     </button>
   );
 };

diff --git a/docs/index.html b/docs/index.html
@@ -13,8 +13,8 @@
       href="https://fonts.googleapis.com/css2?family=Cairo:wght@400;700;900&family=Tajawal:wght@400;500;700&display=swap"
       rel="stylesheet"
     />
-    <script type="module" crossorigin src="./assets/index-Cw_ZRFd0.js"></script>
-    <link rel="stylesheet" crossorigin href="./assets/index-ChkNGgoA.css">
+    <script type="module" crossorigin src="./assets/index-BgeSWx5V.js"></script>
+    <link rel="stylesheet" crossorigin href="./assets/index-B9Rr-2b2.css">
   </head>
   <body class="overscroll-none antialiased">
     <div id="root"></div>
